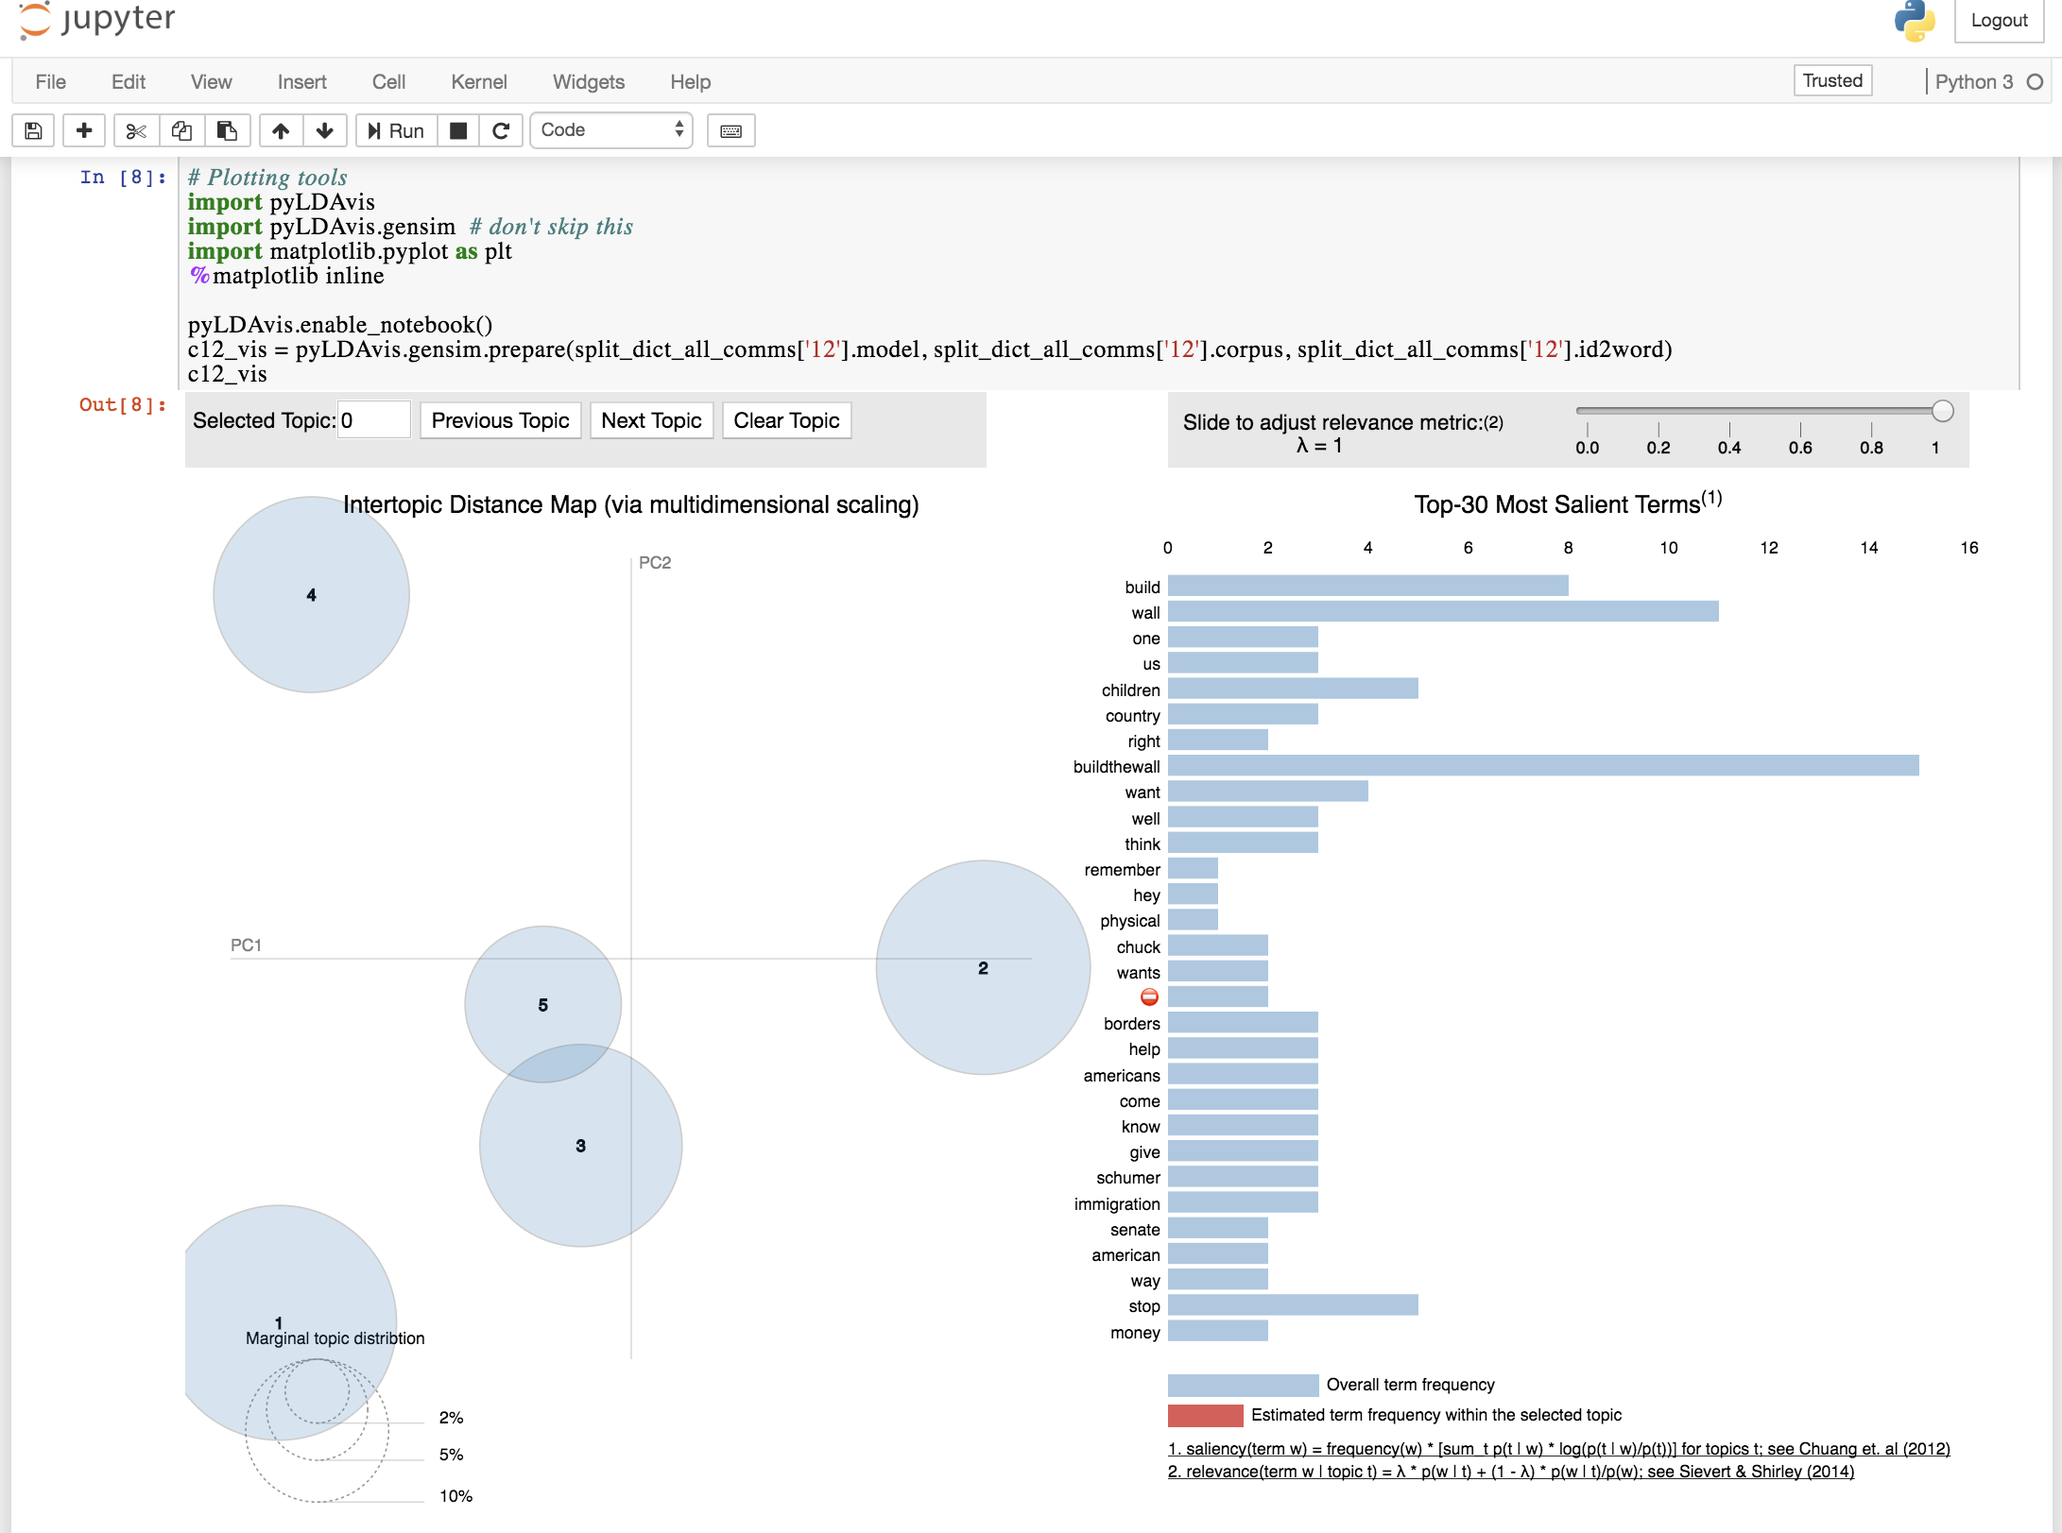
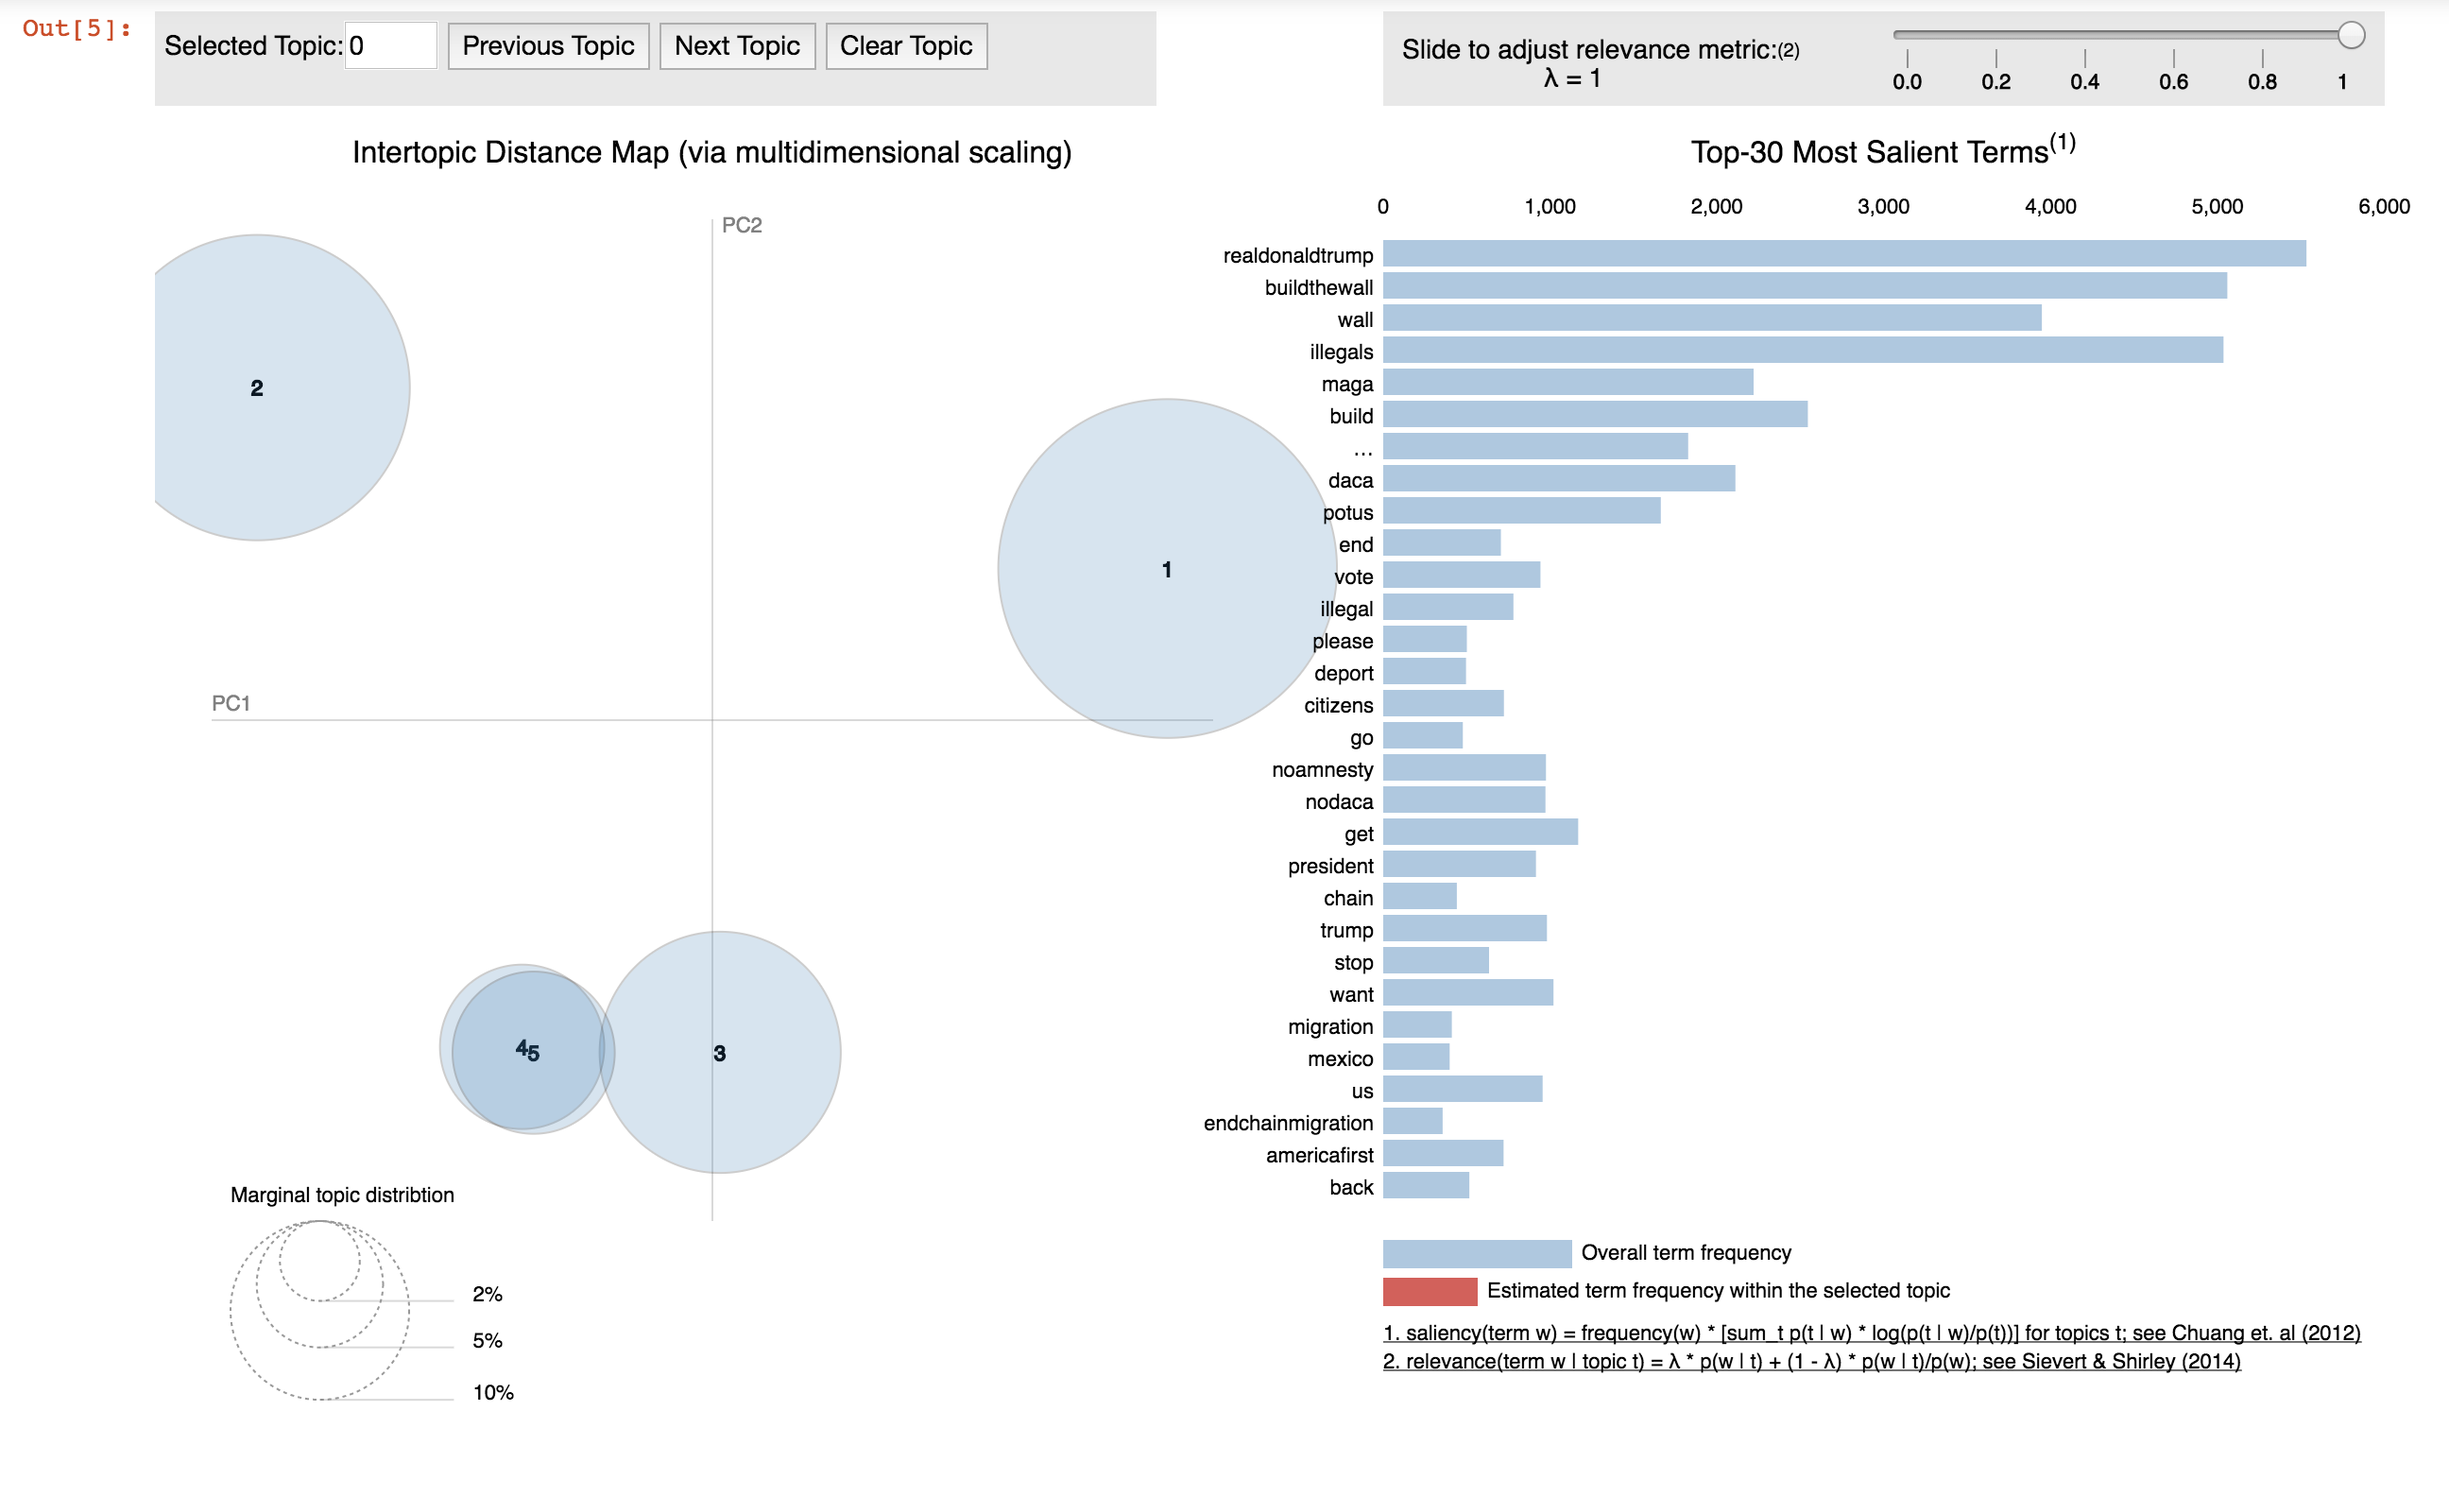
Updated topic modeling help

diff --git a/README.md b/README.md
@@ -443,19 +443,54 @@ __Sample Output from Above Code__
  Modeling complete.
 ```
 
-**Add top mentioned users to each community's ```.top_mentions``` property**
+After the above process, the ```tms_full_dict``` is then saturated with TM objects:
 
-<img src="https://github.com/lingeringcode/nttc/raw/master/assets/images/add_mentions.png" />
+```python
+{'1': <nttc.nttc.communitiesObject at 0x12d5a5e80>,
+ '10': <nttc.nttc.communitiesObject at 0x13067d9b0>,
+ '11': <nttc.nttc.communitiesObject at 0x13067db38>,
+ '12': <nttc.nttc.communitiesObject at 0x13067d278>,
+ '13': <nttc.nttc.communitiesObject at 0x13067d6a0>,
+ '14': <nttc.nttc.communitiesObject at 0x108457198>,
+ '15': <nttc.nttc.communitiesObject at 0x13067d3c8>,
+ '2': <nttc.nttc.communitiesObject at 0x13067d0f0>,
+ '3': <nttc.nttc.communitiesObject at 0x13067d828>,
+ '4': <nttc.nttc.communitiesObject at 0x1084574a8>,
+ '5': <nttc.nttc.communitiesObject at 0x13067de48>,
+ '6': <nttc.nttc.communitiesObject at 0x13067dfd0>,
+ '7': <nttc.nttc.communitiesObject at 0x13067d518>,
+ '8': <nttc.nttc.communitiesObject at 0x108457320>,
+ '9': <nttc.nttc.communitiesObject at 0x13067dcc0>}
+```
 
-**Merge top RT and mentioned users (in-degree) information to each community's ```.full_hub``` property**
+Using some outputs from each object, you can visualize the topic models as an intertopic dsintance map:
 
-<img src="https://github.com/lingeringcode/nttc/raw/master/assets/images/merge_mentions_top_rts.png" />
+```python
+# Plotting tools
+import pyLDAvis
+import pyLDAvis.gensim  # don't skip this
+import matplotlib.pyplot as plt
+%matplotlib inline
 
-**Using some outputs from each object, you can visualize the topic models**
+pyLDAvis.enable_notebook()
+c1_vis = pyLDAvis.gensim.prepare(
+    tms_full_dict['1'].model, 
+    tms_full_dict['1'].corpus, 
+    tms_full_dict['1'].id2word)
+c1_vis
+```
 
 <img src="https://github.com/lingeringcode/nttc/raw/master/assets/images/intertopic_distance_map.png" />
 
-**You can also output the entire hub as a CSV for closer analysis**
+You can also add top mentioned users to each community's ```.top_mentions``` property:
+
+<img src="https://github.com/lingeringcode/nttc/raw/master/assets/images/add_mentions.png" />
+
+Merge top RT and mentioned users (in-degree) information to each community's ```.full_hub``` property:
+
+<img src="https://github.com/lingeringcode/nttc/raw/master/assets/images/merge_mentions_top_rts.png" />
+
+You can also output the entire hub as a CSV for closer analysis:
 
 ```python
 nttc.create_hub_csv_files(
